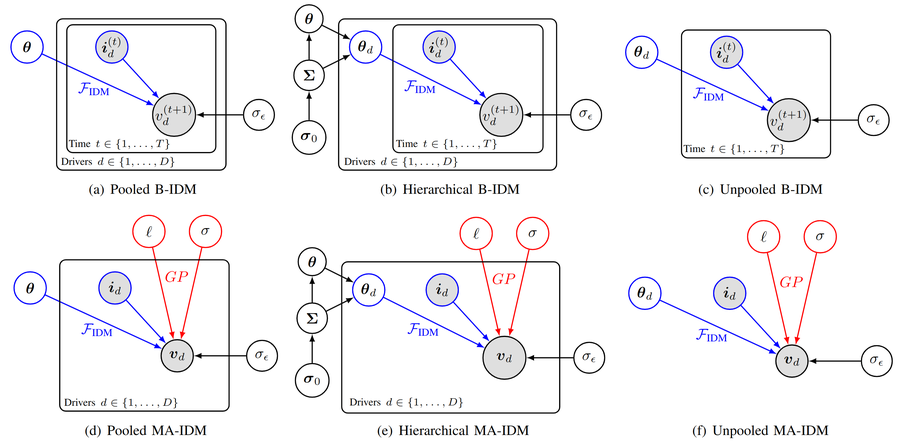
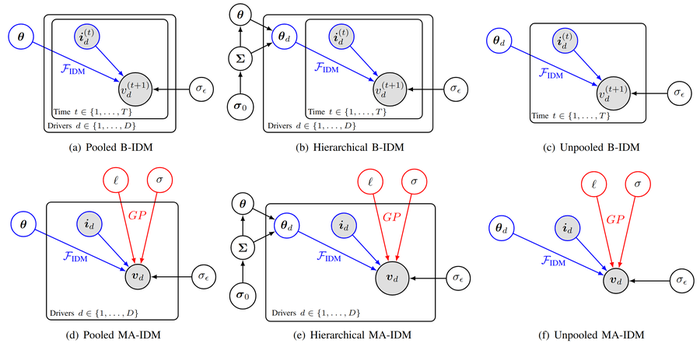
perf: shrink home page publication thumbnails
The three .pub-item__thumb images render at 120x80 on desktop but weighed
752 KB together, dominating the home page payload. Cap them at 700 px and
convert the MA-IDM poster to JPEG, since it is dense photographic content that
PNG compresses poorly.

752 KB -> 310 KB. Also normalise the odd .Png extension to lowercase.

Copilot-Session: 04a95ffe-5263-4183-a350-f466786b129c

diff --git a/_pages/about.md b/_pages/about.md
@@ -82,7 +82,7 @@ Selected Publications
 ------
 
 <div class="pub-item">
-  <img class="pub-item__thumb" src="{{ '/images/MA-IDM.png' | relative_url }}" alt="Markov Regime-Switching IDM" loading="lazy">
+  <img class="pub-item__thumb" src="{{ '/images/MA-IDM.jpg' | relative_url }}" alt="Markov Regime-Switching IDM" loading="lazy">
   <div class="pub-item__body">
     <a class="pub-item__title" href="https://arxiv.org/abs/2506.14762">Markov Regime-Switching Intelligent Driver Model for Interpretable Car-Following Behavior</a>
     <span class="pub-item__venue">Chengyuan Zhang, Cathy Wu, Lijun Sun — preprint (2025)</span>
@@ -106,7 +106,7 @@ Selected Publications
 </div>
 
 <div class="pub-item">
-  <img class="pub-item__thumb" src="{{ '/images/GVF_framework.Png' | relative_url }}" alt="Spatiotemporal lane change" loading="lazy">
+  <img class="pub-item__thumb" src="{{ '/images/GVF_framework.png' | relative_url }}" alt="Spatiotemporal lane change" loading="lazy">
   <div class="pub-item__body">
     <a class="pub-item__title" href="https://ieeexplore.ieee.org/abstract/document/9357407">Spatiotemporal Learning of Multi-Vehicle Interaction Patterns in Lane-Change Scenarios</a>
     <span class="pub-item__venue">Chengyuan Zhang, Jiacheng Zhu, Wenshuo Wang, Junqiang Xi — IEEE T-ITS (2021)</span>
